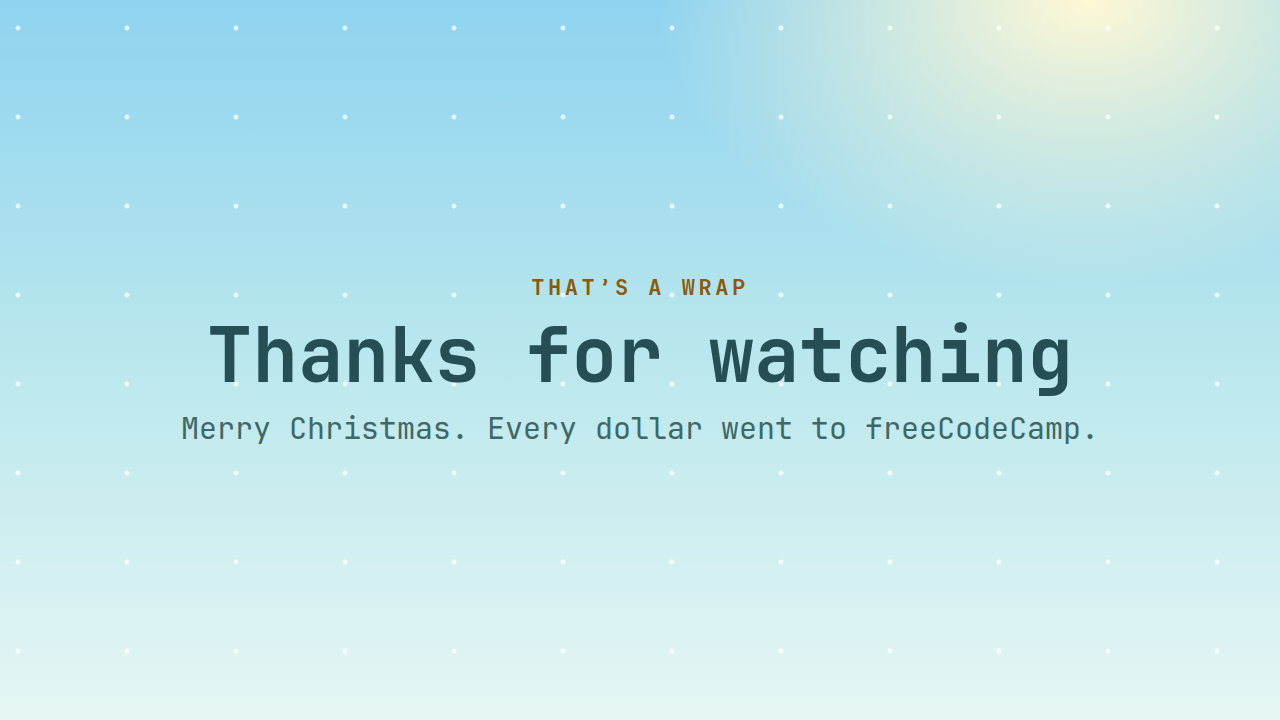
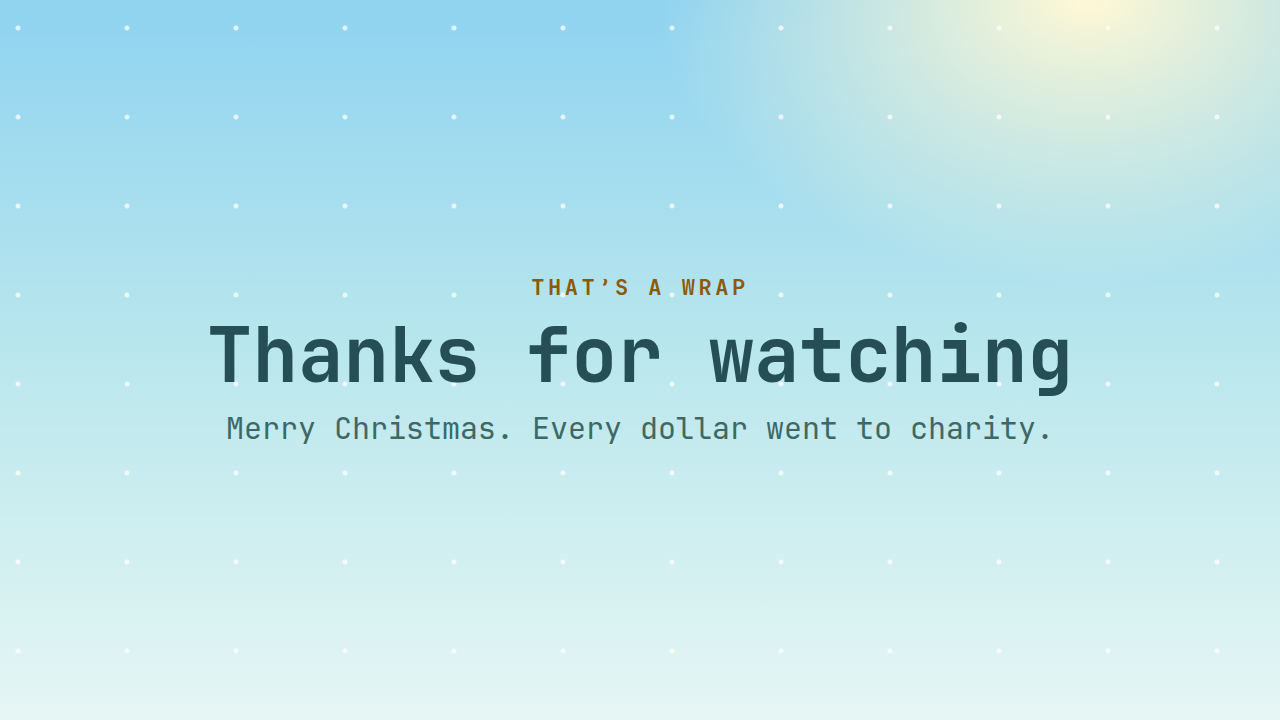
Remove the charity name from public pages. (#26)
The site now says charity instead of the organization, including the goal bar, ticker, sponsor copy, rules, admin desk, and overlays.

Changed region(s): [[0.125, 0.5806, 0.8438, 0.6111]]

diff --git a/public/sponsor.html b/public/sponsor.html
@@ -4,7 +4,7 @@
 <meta charset="utf-8">
 <meta name="viewport" content="width=device-width, initial-scale=1, viewport-fit=cover">
 <title>Sponsor the stream · Jason’s Christmas Birthday Stream</title>
-<meta name="description" content="Sponsor Jason’s Christmas Birthday Stream. Friday, December 18, 2026, 2:00–8:00 PM ET. Multistream. $10,000 for freeCodeCamp.">
+<meta name="description" content="Sponsor Jason’s Christmas Birthday Stream. Friday, December 18, 2026, 2:00–8:00 PM ET. Multistream. $10,000 for charity.">
 <meta name="theme-color" content="#8fd3f0">
 <link rel="preconnect" href="https://fonts.googleapis.com">
 <link rel="preconnect" href="https://fonts.gstatic.com" crossorigin>
@@ -142,15 +142,15 @@ footer .wrap { display: flex; flex-wrap: wrap; justify-content: space-between; g
     <div class="wrap">
       <p class="kicker label">Friday, December 18, 2026 · 2:00–8:00 PM ET</p>
       <h1>Sponsor the <em>stream</em></h1>
-      <p class="lede">Six hours, multistreamed, with a giveaway every hour. The prize lineup is locked. Cash from here goes to freeCodeCamp. The goal is $10,000.</p>
+      <p class="lede">Six hours, multistreamed, with a giveaway every hour. The prize lineup is locked. Cash from here goes to charity. The goal is $10,000.</p>
       <ul class="facts">
         <li>2:00–8:00 PM ET</li>
         <li>Multistream</li>
-        <li>freeCodeCamp</li>
+        <li>For charity</li>
       </ul>
       <div class="raise">
-        <p><b id="raised-amount">__RAISED__</b> of <span id="raised-goal">__GOAL__</span> raised for freeCodeCamp</p>
-        <div class="raise-track" id="raised-meter" role="meter" aria-valuemin="0" aria-valuemax="__GOAL_RAW__" aria-valuenow="__RAISED_RAW__" aria-label="__RAISED__ of __GOAL__ raised for freeCodeCamp"><span id="raised-fill" style="width:__PERCENT__%"></span></div>
+        <p><b id="raised-amount">__RAISED__</b> of <span id="raised-goal">__GOAL__</span> raised for charity</p>
+        <div class="raise-track" id="raised-meter" role="meter" aria-valuemin="0" aria-valuemax="__GOAL_RAW__" aria-valuenow="__RAISED_RAW__" aria-label="__RAISED__ of __GOAL__ raised for charity"><span id="raised-fill" style="width:__PERCENT__%"></span></div>
       </div>
       <div class="ctas">
         <a class="btn btn-gold btn-mail" href="mailto:jason.torres@jetbrains.com">Interested? Email jason.torres@jetbrains.com</a>
@@ -182,7 +182,7 @@ footer .wrap { display: flex; flex-wrap: wrap; justify-content: space-between; g
         <h2 id="levels-h">Pick your level</h2>
       </div>
       <div class="tiers">__TIERS__</div>
-      <p class="fine">Platinum and Gold can pair cash with a prize, and prizes count at retail value. A Platinum prize is an experience, a trip, or big-ticket gear from $1,500. Gold gear starts at $500, and a Gold experience or trip starts at $1,000. Silver and Community are cash for freeCodeCamp. No product demos, and 2–3 minutes of sponsor talk per hour. Platinum books a 1-hour block and Gold books a 30-minute block, first come, first served from 2:00–8:00 PM ET.</p>
+      <p class="fine">Platinum and Gold can pair cash with a prize, and prizes count at retail value. A Platinum prize is an experience, a trip, or big-ticket gear from $1,500. Gold gear starts at $500, and a Gold experience or trip starts at $1,000. Silver and Community are cash for charity. No product demos, and 2–3 minutes of sponsor talk per hour. Platinum books a 1-hour block and Gold books a 30-minute block, first come, first served from 2:00–8:00 PM ET.</p>
     </div>
   </section>
 
@@ -239,7 +239,7 @@ footer .wrap { display: flex; flex-wrap: wrap; justify-content: space-between; g
 <footer class="gutter">
   <div class="wrap">
     <span>Jason Torres · December 18, 2026</span>
-    <span>2:00–8:00 PM ET · freeCodeCamp · $10,000</span>
+    <span>2:00–8:00 PM ET · Raising $10,000 for charity</span>
   </div>
 </footer>
 <script src="/raise.js"></script>

diff --git a/server/pages.js b/server/pages.js
@@ -306,7 +306,7 @@ function bookingBlock(sponsor) {
     const heading = prizeSeat ? "Your prize" : "Cash gift";
     const copy = prizeSeat
       ? "Your giveaway is already on the lineup. Send the logo, the link, and how it gets to the winner."
-      : "This gift is cash for freeCodeCamp. Send your logo, link, talking points, X handle, and the credit line.";
+      : "This gift is cash for charity. Send your logo, link, talking points, X handle, and the credit line.";
     return `<section class="panel stack"><h2>${heading}</h2><p class="quiet">${copy}</p></section>`;
   }
   const rows = sponsor.rows
@@ -359,15 +359,15 @@ const BENEFITS = {
     "A 1-hour block on Friday, Dec 18, 2:00–8:00 PM ET.",
     "Gift Drop, Hot Seat, or both, and a guest name.",
     "Your logo on screen all six hours, plus a thank-you at the open and the close.",
-    "$3,000 cash for freeCodeCamp, or a $1,500+ experience, trip, or big-ticket prize.",
+    "$3,000 cash for charity, or a $1,500+ experience, trip, or big-ticket prize.",
   ],
   gold: [
     "A 30-minute block on Friday, Dec 18, 2:00–8:00 PM ET.",
     "Bring a guest or jump into a game, and a live giveaway moment.",
-    "$1,000 cash for freeCodeCamp, or a prize. Gear starts at $500. An experience or a trip starts at $1,000.",
+    "$1,000 cash for charity, or a prize. Gear starts at $500. An experience or a trip starts at $1,000.",
   ],
-  silver: ["$500 cash for freeCodeCamp.", "A shoutout on the stream and a spot on the logo wall."],
-  community: ["$100 or more in cash for freeCodeCamp.", "Your name on the thank-you wall."],
+  silver: ["$500 cash for charity.", "A shoutout on the stream and a spot on the logo wall."],
+  community: ["$100 or more in cash for charity.", "Your name on the thank-you wall."],
   prize: ["Your giveaway is already on the lineup.", "Send the logo and how it reaches the winner."],
 };
 
@@ -545,7 +545,7 @@ ${ephemeral ? `<div class="banner warn">Temporary storage. Unkey wipes the conta
 <p class="lede">${esc(STREAM_DAY)}, ${esc(WINDOW_LABEL)}. ${spots.lines.map(esc).join(" ")} Prize sponsors: ${spots.prize}. Silver: ${spots.silver}. Community: ${spots.community}.</p>
 <p>Giveaway entries: <b>${giveaway?.total || 0}</b>. ${(giveaway?.lines || []).map(esc).join(" · ") || "No prize entries yet."}</p>
 <p>Tiltify donations: <b id="raised-amount">${esc(money(raised))}</b> of <span id="raised-goal">${esc(money(campaign.goal))}</span>. Sponsor cash is not included.</p>
-<div class="raise-track" id="raised-meter" role="meter" aria-valuemin="0" aria-valuemax="${campaign.goal}" aria-valuenow="${Math.max(0, Math.round(Number(raised) || 0))}" aria-label="${esc(money(raised))} of ${esc(money(campaign.goal))} raised for freeCodeCamp" style="max-width:460px"><span id="raised-fill" style="width:${campaign.goal > 0 ? Math.min(100, Math.round((Math.max(0, Number(raised) || 0) / campaign.goal) * 100)) : 0}%"></span></div>
+<div class="raise-track" id="raised-meter" role="meter" aria-valuemin="0" aria-valuemax="${campaign.goal}" aria-valuenow="${Math.max(0, Math.round(Number(raised) || 0))}" aria-label="${esc(money(raised))} of ${esc(money(campaign.goal))} raised for charity" style="max-width:460px"><span id="raised-fill" style="width:${campaign.goal > 0 ? Math.min(100, Math.round((Math.max(0, Number(raised) || 0) / campaign.goal) * 100)) : 0}%"></span></div>
 <script src="/raise.js"></script>
 <p><a class="btn btn-ghost btn-tiny" href="/admin">Sponsors</a> <a class="btn btn-ghost btn-tiny" href="/admin/guests">Guests</a> <a class="btn btn-ghost btn-tiny" href="/admin/leads.csv">All leads CSV</a> <a class="btn btn-ghost btn-tiny" href="/admin/giveaway.csv">Entrants CSV</a> <a class="btn btn-ghost btn-tiny" href="/draw">Draw a winner</a> <a class="btn btn-ghost btn-tiny" href="/overlays">Overlays</a></p>
 ${hostLinksHtml()}

diff --git a/server/overlayhtml.js b/server/overlayhtml.js
@@ -45,7 +45,7 @@ export function frameHtml() {
       <div style="padding:16px 26px 18px 22px">
         <div style="color:#8a5a09;font-size:20px;font-weight:700;letter-spacing:.16em;text-transform:uppercase">On the air</div>
         <div style="margin-top:4px;font-size:46px;font-weight:700;line-height:1.05">Birthday + Christmas Stream</div>
-        <div style="margin-top:8px;color:#3e6866;font-size:26px;line-height:1.2">Raising $10K for freeCodeCamp · tilt.fyi/9va4uz7GEn</div>
+        <div style="margin-top:8px;color:#3e6866;font-size:26px;line-height:1.2">Raising $10K for charity · tilt.fyi/9va4uz7GEn</div>
       </div>
     </div>`);
 }
@@ -115,7 +115,7 @@ export function wallHtml(groups) {
     }).join("");
     return `<section style="margin-top:18px"><div style="color:#8a5a09;letter-spacing:.16em;text-transform:uppercase;font-size:16px;font-weight:700">${esc(group.tier)}</div><div style="margin-top:10px;display:flex;flex-wrap:wrap;justify-content:center;align-items:flex-end;gap:14px 18px">${items}</div></section>`;
   }).join("");
-  return stage(`<div style="height:720px;display:flex;flex-direction:column;align-items:center;justify-content:center;padding:24px 32px;text-align:center"><div style="font-size:48px;font-weight:700;line-height:1.05">Thank you, sponsors</div><div style="margin-top:6px;color:#3e6866;font-size:22px">Raising $10,000 for freeCodeCamp</div>${columns}</div>`, { opaque: true });
+  return stage(`<div style="height:720px;display:flex;flex-direction:column;align-items:center;justify-content:center;padding:24px 32px;text-align:center"><div style="font-size:48px;font-weight:700;line-height:1.05">Thank you, sponsors</div><div style="margin-top:6px;color:#3e6866;font-size:22px">Raising $10,000 for charity</div>${columns}</div>`, { opaque: true });
 }
 
 export function guestLowerHtml({ name, handle, time }) {
@@ -153,10 +153,10 @@ export function segmentCard(segment, sponsors, publicDir) {
 export function catalog(sponsors, publicDir, qrs, guests = []) {
   const items = [
     { file: "frame.png", title: "Main frame", html: frameHtml() },
-    { file: "starting-soon.png", title: "Starting Soon", html: sceneHtml({ kicker: "Friday, December 18 · 2:00 PM ET", title: "Starting soon", detail: "Six holiday games. Raising $10,000 for freeCodeCamp." }) },
+    { file: "starting-soon.png", title: "Starting Soon", html: sceneHtml({ kicker: "Friday, December 18 · 2:00 PM ET", title: "Starting soon", detail: "Six holiday games. Raising $10,000 for charity." }) },
     { file: "brb.png", title: "Be right back", html: sceneHtml({ kicker: "Stay here", title: "Be right back", detail: "Grab a cocoa. The next game starts in a minute." }) },
-    { file: "ending.png", title: "Thanks for watching", html: sceneHtml({ kicker: "That’s a wrap", title: "Thanks for watching", detail: "Merry Christmas. Every dollar went to freeCodeCamp." }) },
-    { file: "donate-qr.png", title: "Donate QR", html: sceneHtml({ kicker: "freeCodeCamp", title: "Donate now", detail: campaign.tiltifyUrl.replace("https://", ""), qr: qrs.donate }) },
+    { file: "ending.png", title: "Thanks for watching", html: sceneHtml({ kicker: "That’s a wrap", title: "Thanks for watching", detail: "Merry Christmas. Every dollar went to charity." }) },
+    { file: "donate-qr.png", title: "Donate QR", html: sceneHtml({ kicker: "For charity", title: "Donate now", detail: campaign.tiltifyUrl.replace("https://", ""), qr: qrs.donate }) },
     { file: "enter-giveaway.png", title: "Enter the giveaway", html: sceneHtml({ kicker: "Open to US residents only", title: "Enter the giveaway", detail: `${siteUrl.replace("https://", "")}/enter`, qr: qrs.enter }) },
     { file: "winner.png", title: "Winner lower third", html: winnerTemplateHtml() },
   ];

diff --git a/public/index.html b/public/index.html
@@ -4,9 +4,9 @@
 <meta charset="utf-8">
 <meta name="viewport" content="width=device-width, initial-scale=1, viewport-fit=cover">
 <title>Jason’s Christmas Birthday Stream</title>
-<meta name="description" content="Friday, December 18, 2026, 2:00–8:00 PM ET. Six holiday games, multistream, raising $10,000 for freeCodeCamp.">
+<meta name="description" content="Friday, December 18, 2026, 2:00–8:00 PM ET. Six holiday games, multistream, raising $10,000 for charity.">
 <meta property="og:title" content="Jason’s Christmas Birthday Stream">
-<meta property="og:description" content="Fri Dec 18, 2026 · 2:00–8:00 PM ET. Six games. $10,000 for freeCodeCamp.">
+<meta property="og:description" content="Fri Dec 18, 2026 · 2:00–8:00 PM ET. Six games. $10,000 for charity.">
 <meta property="og:image" content="/og.jpg">
 <meta name="twitter:card" content="summary_large_image">
 <meta name="theme-color" content="#8fd3f0">
@@ -160,15 +160,15 @@ footer .wrap { display: flex; flex-wrap: wrap; justify-content: space-between; g
       <div>
         <p class="kicker label">Friday, December 18, 2026</p>
         <h1>Six hours of holiday <em>games</em></h1>
-        <p class="lede">One stream, sent out live on more than one platform. Every dollar on the donate button goes to freeCodeCamp. The goal is $10,000.</p>
+        <p class="lede">One stream, sent out live on more than one platform. Every dollar on the donate button goes to charity. The goal is $10,000.</p>
         <ul class="facts">
           <li>2:00–8:00 PM ET</li>
           <li>Multistream</li>
           <li>Free to watch</li>
         </ul>
         <div class="raise">
-          <p><b id="raised-amount">__RAISED__</b> of <span id="raised-goal">__GOAL__</span> raised for freeCodeCamp</p>
-          <div class="raise-track" id="raised-meter" role="meter" aria-valuemin="0" aria-valuemax="__GOAL_RAW__" aria-valuenow="__RAISED_RAW__" aria-label="__RAISED__ of __GOAL__ raised for freeCodeCamp"><span id="raised-fill" style="width:__PERCENT__%"></span></div>
+          <p><b id="raised-amount">__RAISED__</b> of <span id="raised-goal">__GOAL__</span> raised for charity</p>
+          <div class="raise-track" id="raised-meter" role="meter" aria-valuemin="0" aria-valuemax="__GOAL_RAW__" aria-valuenow="__RAISED_RAW__" aria-label="__RAISED__ of __GOAL__ raised for charity"><span id="raised-fill" style="width:__PERCENT__%"></span></div>
         </div>
         <div class="ctas">
           <a class="btn btn-gold" href="__TILTIFY__">Donate</a>
@@ -218,7 +218,7 @@ footer .wrap { display: flex; flex-wrap: wrap; justify-content: space-between; g
 <footer class="gutter">
   <div class="wrap">
     <span>Jason Torres · December 18, 2026</span>
-    <span>2:00–8:00 PM ET · freeCodeCamp · $10,000</span>
+    <span>2:00–8:00 PM ET · Raising $10,000 for charity</span>
   </div>
 </footer>
 

diff --git a/server/pitch.js b/server/pitch.js
@@ -9,7 +9,7 @@ const COPY = {
   platinum: {
     price: "$3,000 cash, or a $1,500+ prize",
     block: "1-hour block",
-    text: "Cash goes to freeCodeCamp. A prize at this level is an experience, a trip, or big-ticket gear worth $1,500 or more. You get a 1-hour block, plus a named segment inside it. Your logo is on screen all six hours, and Jason thanks you at the open and the close.",
+    text: "Cash goes to charity. A prize at this level is an experience, a trip, or big-ticket gear worth $1,500 or more. You get a 1-hour block, plus a named segment inside it. Your logo is on screen all six hours, and Jason thanks you at the open and the close.",
     extra: `<div class="segments">
       <div class="segment"><b>The [Your Brand] Gift Drop</b>Your guest draws that hour’s winner live.</div>
       <div class="segment"><b>The [Your Brand] Hot Seat</b>A 10-minute holiday chat with someone from your team.</div>
@@ -18,19 +18,19 @@ const COPY = {
   gold: {
     price: "$1,000 cash, or a $500+ prize",
     block: "30-minute block",
-    text: "Cash goes to freeCodeCamp. Gear starts at $500. An experience or a trip starts at $1,000. You get a 30-minute block, bring a guest or jump into a game, and get a live giveaway moment.",
+    text: "Cash goes to charity. Gear starts at $500. An experience or a trip starts at $1,000. You get a 30-minute block, bring a guest or jump into a game, and get a live giveaway moment.",
     extra: "",
   },
   silver: {
     price: "$500 cash",
     block: "No timed block",
-    text: "Your $500 goes to freeCodeCamp. You get a shoutout during the stream and a spot on the sponsor logo wall.",
+    text: "Your $500 goes to charity. You get a shoutout during the stream and a spot on the sponsor logo wall.",
     extra: "",
   },
   community: {
     price: "$100+ cash",
     block: "No timed block",
-    text: "Your gift goes to freeCodeCamp, and your name goes on the thank-you wall.",
+    text: "Your gift goes to charity, and your name goes on the thank-you wall.",
     extra: "",
   },
 };

diff --git a/server/showpages.js b/server/showpages.js
@@ -99,7 +99,7 @@ export function renderRules({ prizes = [] } = {}) {
     ? `<ul>${prizes.map((prize) => `<li><b>${esc(prize.prize)}</b> from ${esc(prize.sponsor)}</li>`).join("")}</ul>`
     : "<p>The prizes are the ones listed on the entry page.</p>";
   const body = `<div class="wrap"><h1>Official rules</h1>
-    <p>These are the rules for the giveaway on Jason Torres’s Birthday + Christmas Stream. The stream benefits freeCodeCamp.</p>
+    <p>These are the rules for the giveaway on Jason Torres’s Birthday + Christmas Stream. The stream benefits a charity.</p>
     <h2>Who can enter</h2>
     <p>Legal residents of the United States.</p>
     <p class="banner"><b>Jason, confirm this before the stream.</b> Placeholder, not a rule yet: the minimum age still needs your sign-off. Do not treat this sentence as an age limit.</p>
@@ -188,7 +188,7 @@ export function renderWinnerCard({ name, prize, mode }) {
 }
 
 export function renderLiveGoal(mode) {
-  const body = `<div class="goal"><div style="letter-spacing:.14em;text-transform:uppercase;color:#8a5a09">freeCodeCamp</div><h1 id="raised">$0</h1><div class="bar"><b id="fill" style="width:0"></b></div><p id="meta"></p></div>
+  const body = `<div class="goal"><div style="letter-spacing:.14em;text-transform:uppercase;color:#8a5a09">For charity</div><h1 id="raised">$0</h1><div class="bar"><b id="fill" style="width:0"></b></div><p id="meta"></p></div>
     <script>
       async function pull(){
         var raised=0, goal=10000, live=false;
@@ -229,7 +229,7 @@ export function renderLiveTicker(mode, line) {
         const data=await res.json();
         raised=Math.max(0,Math.round(Number(data.raised)||0));
       } catch (e) { raised=0; }
-      document.getElementById("line").textContent="$"+raised.toLocaleString("en-US")+" raised for freeCodeCamp · "+base;
+      document.getElementById("line").textContent="$"+raised.toLocaleString("en-US")+" raised for charity · "+base;
     }
     pull(); setInterval(pull, 15000);
   </script>`;

diff --git a/test/flow.test.js b/test/flow.test.js
@@ -257,7 +257,8 @@ test("sponsor portal flow", async (t) => {
   assert.match(home.text, /Friday, December 18, 2026/);
   assert.match(home.text, /2:00–8:00 PM ET/);
   assert.match(home.text, /Multistream/);
-  assert.match(home.text, /freeCodeCamp/);
+  assert.match(home.text, /raised for charity/);
+  assert.doesNotMatch(home.text, /free\s*code\s*camp|\bfcc\b/i);
   assert.match(home.text, /\$10,000/);
   assert.match(home.text, /\$0<\/b> of <span id="raised-goal">\$10,000<\/span> raised/);
   assert.match(home.text, /src="\/raise\.js"/);
@@ -331,7 +332,8 @@ test("sponsor portal flow", async (t) => {
   assert.match(pitch.text, /Friday, December 18, 2026/);
   assert.match(pitch.text, /2:00–8:00 PM ET/);
   assert.match(pitch.text, /Multistream/);
-  assert.match(pitch.text, /freeCodeCamp/);
+  assert.match(pitch.text, /for charity/);
+  assert.doesNotMatch(pitch.text, /free\s*code\s*camp|\bfcc\b/i);
   assert.match(pitch.text, /\$10,000/);
   assert.match(pitch.text, /\$0<\/b> of <span id="raised-goal">\$10,000<\/span> raised/);
   assert.doesNotMatch(pitch.text, /\$6,000<\/b>/);
@@ -573,7 +575,8 @@ test("sponsor portal flow", async (t) => {
   assert.match((await follow(rabbit, rabbitTry)).text, /no stream block to book/);
   const rabbitHome = await rabbit.fetch("/portal");
   assert.match(rabbitHome.text, /Cash gift/);
-  assert.match(rabbitHome.text, /freeCodeCamp/);
+  assert.match(rabbitHome.text, /for charity/);
+  assert.doesNotMatch(rabbitHome.text, /free\s*code\s*camp|\bfcc\b/i);
   assert.doesNotMatch(rabbitHome.text, /name="prize_details"/);
   assert.doesNotMatch(rabbitHome.text, /name="shipping"/);
 

diff --git a/server/ticker.js b/server/ticker.js
@@ -4,14 +4,14 @@ const ENTER = `${siteUrl}/enter`;
 
 export function tickerText(sponsors) {
   const names = (sponsors || []).map((sponsor) => sponsor.name).filter(Boolean).join(", ");
-  const line = `Donate at tilt.fyi/9va4uz7GEn · Raising $${campaign.goal.toLocaleString("en-US")} for freeCodeCamp · Thank you ${names} · Enter the giveaway at ${ENTER} · No donation needed to enter · Open to US residents only`;
+  const line = `Donate at tilt.fyi/9va4uz7GEn · Raising $${campaign.goal.toLocaleString("en-US")} for charity · Thank you ${names} · Enter the giveaway at ${ENTER} · No donation needed to enter · Open to US residents only`;
   return line.replace(/\s+/g, " ").trim();
 }
 
 export function bannerLines() {
   return [
-    "Donate at tilt.fyi/9va4uz7GEn. Every dollar goes to freeCodeCamp.",
-    "Goal: $10,000 for freeCodeCamp. The giveaway needs no donation.",
+    "Donate at tilt.fyi/9va4uz7GEn. Every dollar goes to charity.",
+    "Goal: $10,000 for charity. The giveaway needs no donation.",
     "Enter the giveaway. Open to US residents only. One entry per email. No purchase necessary.",
     "Open to US residents only.",
     "Six holiday games, 2:00–8:00 PM ET, Friday, December 18.",

diff --git a/server/domain.js b/server/domain.js
@@ -280,7 +280,7 @@ function assertBookable(sponsor, start, actor) {
   if (!duration) {
     const why = sponsor.tier === "prize"
       ? "Prize sponsors are already on the lineup"
-      : `${tierLabel(sponsor.tier)} is a cash gift for freeCodeCamp`;
+      : `${tierLabel(sponsor.tier)} is a cash gift for charity`;
     throw new AppError(`${why}, so there’s no stream block to book.`);
   }
   if (!Number.isInteger(start) || start % 30 !== 0) throw new AppError("Pick a block from the schedule.");

diff --git a/public/raise.js b/public/raise.js
@@ -29,7 +29,7 @@
     if (meter) {
       meter.setAttribute("aria-valuenow", String(raised));
       meter.setAttribute("aria-valuemax", String(goal));
-      meter.setAttribute("aria-label", money(raised) + " of " + money(goal) + " raised for freeCodeCamp");
+      meter.setAttribute("aria-label", money(raised) + " of " + money(goal) + " raised for charity");
     }
   }
 

diff --git a/server/campaign.js b/server/campaign.js
@@ -5,7 +5,7 @@ import { showcaseHtml } from "./brands.js";
  * Sponsor cash is not part of that number. Donate buttons use `tiltifyUrl`.
  */
 export const campaign = {
-  cause: "freeCodeCamp",
+  cause: "charity",
   goal: 10000,
   tiltifyUrl: "https://tilt.fyi/9va4uz7GEn",
 };
